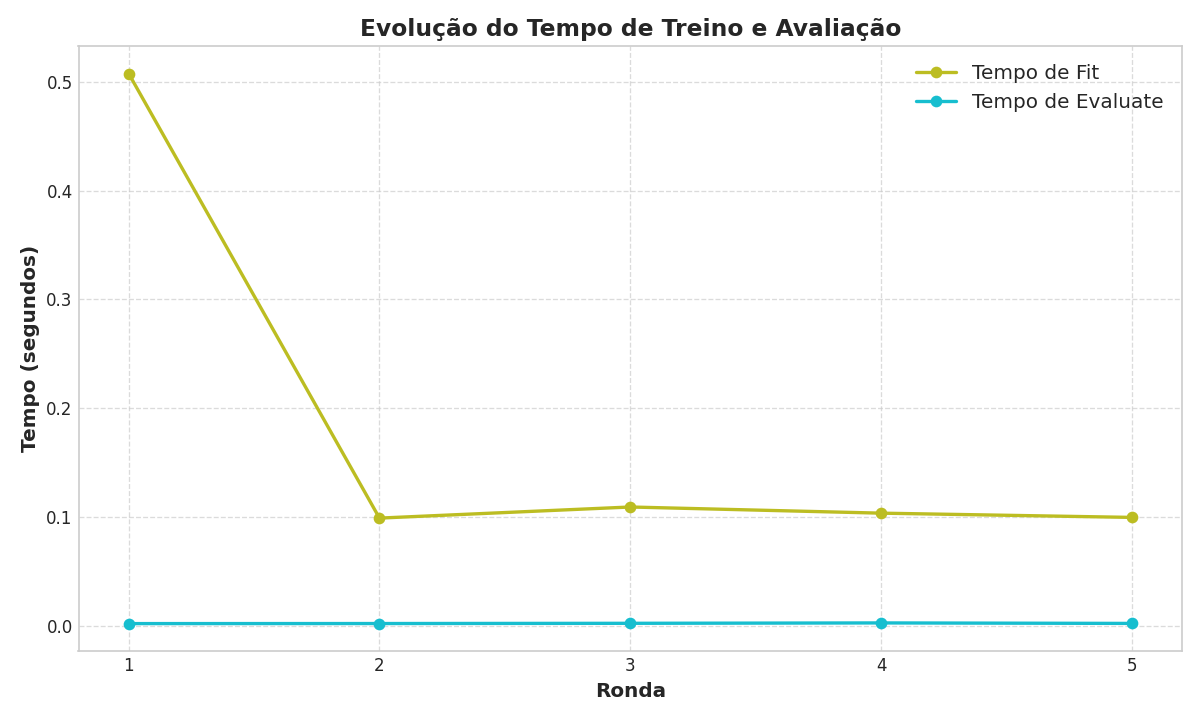
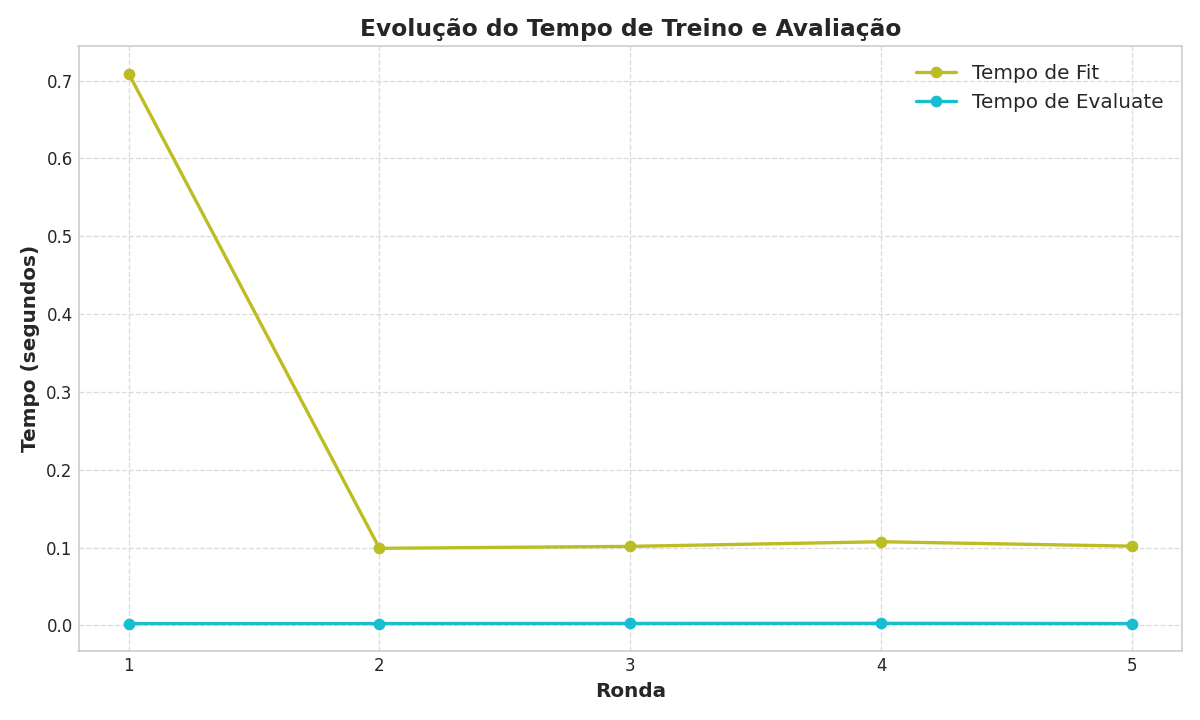
CLFE - Gráfico tempos EXP OK

diff --git a/CLFE/client/reports/client_1/detailed_report_client_1.html b/CLFE/client/reports/client_1/detailed_report_client_1.html
@@ -55,7 +55,7 @@
             <h3>Tabela 2: Métricas de Teste</h3>
             <div class="table-container"><table class="metrics-table"><thead><tr><th>Ronda</th><th>Test Loss</th><th>Test Rmse</th><th>Test Accuracy</th><th>Test Precision</th><th>Test Recall</th><th>Test F1</th></tr></thead><tbody><tr><td>1</td><td>0.3192</td><td>0.0867</td><td>0.9900</td><td>0.8776</td><td>0.9773</td><td>0.9247</td></tr><tr><td>2</td><td>0.3027</td><td>0.0758</td><td>0.9943</td><td>0.9167</td><td>1</td><td>0.9565</td></tr><tr><td>3</td><td>0.3039</td><td>0.0754</td><td>0.9943</td><td>0.9167</td><td>1</td><td>0.9565</td></tr><tr><td>4</td><td>0.2997</td><td>0.0752</td><td>0.9943</td><td>0.9167</td><td>1</td><td>0.9565</td></tr><tr><td>5</td><td>0.2966</td><td>0.0749</td><td>0.9943</td><td>0.9167</td><td>1</td><td>0.9565</td></tr></tbody></table></div>
             <h3>Tabela 3: Tempos de Processamento (segundos)</h3>
-            <div class="table-container"><table class="metrics-table"><thead><tr><th>Ronda</th><th>Fit</th><th>Evaluate</th><th>Lime</th><th>Shap</th></tr></thead><tbody><tr><td>1</td><td>0.5077</td><td>0.0021</td><td>-</td><td>-</td></tr><tr><td>2</td><td>0.0991</td><td>0.0021</td><td>-</td><td>-</td></tr><tr><td>3</td><td>0.1093</td><td>0.0024</td><td>-</td><td>-</td></tr><tr><td>4</td><td>0.1036</td><td>0.0027</td><td>-</td><td>-</td></tr><tr><td>5</td><td>0.0997</td><td>0.0023</td><td>0.6844</td><td>12.3160</td></tr></tbody></table></div>
+            <div class="table-container"><table class="metrics-table"><thead><tr><th>Ronda</th><th>Fit</th><th>Evaluate</th><th>Lime</th><th>Shap</th></tr></thead><tbody><tr><td>1</td><td>0.7091</td><td>0.0023</td><td>-</td><td>-</td></tr><tr><td>2</td><td>0.0990</td><td>0.0023</td><td>-</td><td>-</td></tr><tr><td>3</td><td>0.1015</td><td>0.0024</td><td>-</td><td>-</td></tr><tr><td>4</td><td>0.1074</td><td>0.0026</td><td>-</td><td>-</td></tr><tr><td>5</td><td>0.1018</td><td>0.0023</td><td>0.7313</td><td>12.1510</td></tr></tbody></table></div>
         </div>
 
         <div class="section plot-container">
@@ -129,7 +129,7 @@
         </div>
         
         <div class="footer">
-            <p><em>Relatório gerado automaticamente em 2025-05-07 08:15:50</em></p>
+            <p><em>Relatório gerado automaticamente em 2025-05-07 08:24:04</em></p>
         </div>
     </body>
     </html>

diff --git a/CLFE/client/reports/client_2/detailed_report_client_2.html b/CLFE/client/reports/client_2/detailed_report_client_2.html
@@ -55,7 +55,7 @@
             <h3>Tabela 2: Métricas de Teste</h3>
             <div class="table-container"><table class="metrics-table"><thead><tr><th>Ronda</th><th>Test Loss</th><th>Test Rmse</th><th>Test Accuracy</th><th>Test Precision</th><th>Test Recall</th><th>Test F1</th></tr></thead><tbody><tr><td>1</td><td>0.3171</td><td>0.0786</td><td>0.9929</td><td>0.9184</td><td>0.9783</td><td>0.9474</td></tr><tr><td>2</td><td>0.1690</td><td>0.0649</td><td>0.9957</td><td>0.9388</td><td>1</td><td>0.9684</td></tr><tr><td>3</td><td>0.1490</td><td>0.0559</td><td>0.9957</td><td>0.9388</td><td>1</td><td>0.9684</td></tr><tr><td>4</td><td>0.1453</td><td>0.0476</td><td>0.9972</td><td>0.9583</td><td>1</td><td>0.9787</td></tr><tr><td>5</td><td>0.1437</td><td>0.0415</td><td>0.9986</td><td>0.9787</td><td>1</td><td>0.9892</td></tr></tbody></table></div>
             <h3>Tabela 3: Tempos de Processamento (segundos)</h3>
-            <div class="table-container"><table class="metrics-table"><thead><tr><th>Ronda</th><th>Fit</th><th>Evaluate</th><th>Lime</th><th>Shap</th></tr></thead><tbody><tr><td>1</td><td>0.5112</td><td>0.0022</td><td>-</td><td>-</td></tr><tr><td>2</td><td>0.1013</td><td>0.0023</td><td>-</td><td>-</td></tr><tr><td>3</td><td>0.1057</td><td>0.0023</td><td>-</td><td>-</td></tr><tr><td>4</td><td>0.1065</td><td>0.0034</td><td>-</td><td>-</td></tr><tr><td>5</td><td>0.1028</td><td>0.0023</td><td>0.8926</td><td>12.7947</td></tr></tbody></table></div>
+            <div class="table-container"><table class="metrics-table"><thead><tr><th>Ronda</th><th>Fit</th><th>Evaluate</th><th>Lime</th><th>Shap</th></tr></thead><tbody><tr><td>1</td><td>0.7071</td><td>0.0023</td><td>-</td><td>-</td></tr><tr><td>2</td><td>0.0985</td><td>0.0024</td><td>-</td><td>-</td></tr><tr><td>3</td><td>0.1063</td><td>0.0023</td><td>-</td><td>-</td></tr><tr><td>4</td><td>0.1052</td><td>0.0025</td><td>-</td><td>-</td></tr><tr><td>5</td><td>0.1017</td><td>0.0024</td><td>0.7316</td><td>12.3635</td></tr></tbody></table></div>
         </div>
 
         <div class="section plot-container">
@@ -129,7 +129,7 @@
         </div>
         
         <div class="footer">
-            <p><em>Relatório gerado automaticamente em 2025-05-07 08:15:51</em></p>
+            <p><em>Relatório gerado automaticamente em 2025-05-07 08:24:04</em></p>
         </div>
     </body>
     </html>

diff --git a/CLFE/client/report_helpers/plot_generation.py b/CLFE/client/report_helpers/plot_generation.py
@@ -302,7 +302,57 @@ def generate_evolution_plots(history: Dict[str, List[Any]], base_reports: Path) 
             plot_files.append(plot_filename)
             logger.info(f"Generated plot: {plot_path}")
 
-        # 6. GRÁFICO DE COMPARAÇÃO DE ACURÁCIA - Treino, Validação e Teste
+        # 6. GRÁFICO DE TEMPOS DE EXPLICABILIDADE (LIME, SHAP - barras)
+        # Chaves para tempos de explicabilidade
+        explainability_keys = ['lime_duration_seconds', 'shap_duration_seconds']
+        
+        if any(key in history for key in explainability_keys) and any(history.get(key, [0])[-1] > 0 for key in explainability_keys):
+            plt.figure(figsize=(10, 6))
+            
+            available_metrics = [m for m in explainability_keys if m in history and any(v > 0 for v in history[m])]
+            
+            # Para explicabilidade, geralmente só temos valores na última ronda
+            # Vamos extrair os valores não-zero de cada métrica
+            data = {}
+            for metric in available_metrics:
+                metric_name = metric.replace('_duration_seconds', '')
+                non_zero_values = [v for v in history[metric] if v > 0]
+                if non_zero_values:
+                    data[metric_name] = non_zero_values[-1]  # Pegar o último valor não-zero
+            
+            # Criar gráfico de barras
+            if data:
+                names = list(data.keys())
+                values = list(data.values())
+                
+                # Definir cores para as barras
+                bar_colors = [colors.get(name, '#333333') for name in names]
+                
+                bars = plt.bar(names, values, color=bar_colors)
+                
+                # Adicionar valores acima das barras
+                for bar in bars:
+                    height = bar.get_height()
+                    plt.text(bar.get_x() + bar.get_width()/2., height + 0.1,
+                           f'{height:.2f}s', ha='center', va='bottom', fontsize=10)
+                
+                plt.xlabel("Método de Explicabilidade", fontsize=12, fontweight='bold')
+                plt.ylabel("Tempo (segundos)", fontsize=12, fontweight='bold')
+                plt.title("Tempos de Processamento das Explicabilidades", fontsize=14, fontweight='bold')
+                plt.xticks(fontsize=10)
+                plt.yticks(fontsize=10)
+                plt.grid(True, axis='y', linestyle='--', alpha=0.7)
+                
+                plt.tight_layout()
+                plot_filename = "explainability_times.png"
+                plot_path = base_reports / plot_filename
+                plt.savefig(plot_path, dpi=120)
+                plt.close()
+                # Não adicionamos explainability_times.png à lista de plot_files
+                # para evitar que apareça na seção de evolução de métricas
+                logger.info(f"Generated plot: {plot_path}")
+
+        # 7. GRÁFICO DE COMPARAÇÃO DE ACURÁCIA - Treino, Validação e Teste
         if all(key in history for key in ['val_accuracy', 'test_accuracy']):
             plt.figure(figsize=(10, 6))
             

diff --git a/README.md b/README.md
@@ -103,7 +103,9 @@ O dataset é particionado usando `StratifiedKFold` para preservar a proporção 
 - **Modelo treinado:** `results/client_X/model_client_X.pt`
 - **Histórico de métricas:** `reports/client_X/metrics_history.json`
 - **Dataset de treino (para LIME/SHAP):** `reports/client_X/X_train.npy`
-- **Plots de Evolução:** `reports/client_X/<metrica>_evolution.png` (e.g., `train_loss_evolution.png`, `val_rmse_evolution.png`, etc.)
+- **Plots de Evolução:** `reports/client_X/<metrica>_evolution.png` (treino/validação/teste) e **gráficos de tempos**:
+    - `reports/client_X/processing_times_evolution.png` (tempo de treino/avaliação por ronda)
+    - `reports/client_X/explainability_times.png` (tempo LIME/SHAP – apenas última ronda)
 - **Explicabilidade LIME:**
     - `reports/client_X/lime_final.png` (Top 10 Features)
     - `reports/client_X/lime_final.html` (Explicação Completa)
@@ -116,7 +118,7 @@ O dataset é particionado usando `StratifiedKFold` para preservar a proporção 
     - `reports/client_X/shap_temporal_heatmap.png` (Mapa de calor temporal)
     - `reports/client_X/shap_temporal_index_importance.png` (Importância por índice temporal)
     - `reports/client_X/shap_timestamp_features_importance.png` (Importância das features derivadas de timestamp)
-- **Relatório HTML Consolidado:** `reports/client_X/final_report.html` (métricas por ronda, tempos, gráficos, LIME Top 10, SHAP)
+- **Relatório HTML Consolidado:** `reports/client_X/final_report.html` (métricas, gráficos de evolução e tempos, LIME Top-10, SHAP, tabelas detalhadas)
 - **Ferramenta de Explicabilidade Interativa:** `explain_instance.py` (permite selecionar e explicar qualquer instância individual)
 
 ## Estado Atual
@@ -129,6 +131,7 @@ O dataset é particionado usando `StratifiedKFold` para preservar a proporção 
 - Explicabilidade (LIME/SHAP) gerando visualizações categorizadas por tipo de feature
 - Relatórios HTML finais detalhados com múltiplos gráficos e visualizações
 - Implementação do sistema de metadados para rastreabilidade completa das features
+- **NOVO:** Gráficos de tempos criados (`processing_times_evolution.png`, `explainability_times.png`)
 - **NOVO:** Correção de gráficos para mostrar o número correto de rondas (5 em vez de 10)
 - **NOVO:** Interface de relatório melhorada com apresentação lado a lado de LIME/SHAP
 - **NOVO:** Reorganização lógica dos gráficos de explicabilidade e evolução de métricas

diff --git a/ESTADOATUAL.md b/ESTADOATUAL.md
@@ -1,6 +1,6 @@
 # Estado Atual do Projeto – CLFE (Classificação Linear Federada Explicável)
 
-> Última atualização: 2025-05-06 11:05
+> Última atualização: 2025-05-07 09:31
 
 ---
 
@@ -24,7 +24,7 @@
 | ✅ | Conversão RLFE → **CLFE** (sigmoid + BCE) | Modelo |
 | ✅ | Métricas de classificação (acc/prec/recall/F1) | Modelo |
 | ✅ | Sistema de **metadados de features** | Explainability |
-| ✅ | Gráficos + relatório HTML (valores originais) | Explainability |
+| ✅ | Gráficos completos (métricas, tempos e `explainability_times.png`) + relatório HTML | Explainability |
 | ✅ | Módulo `export_utils.py` unifica exportação de artefatos | Infraestrutura |
 | 🔄 | Saída de explicações em `instance_explanations/` | Explainability |
 | 🔄 | Investigar *extra_feature_X* & alinhar datasets | Dados |
@@ -58,7 +58,7 @@ Legenda: ✅ Concluído 🔄 Em progresso ☐ Pendente
 - ☐ Explorar regularização / múltiplas camadas se necessário
 
 ### 3.4 Explicabilidade
-- ✅ LIME Top-10 & completo, cores verde/vermelho
+- ✅ LIME/SHAP visualizações e **gráficos de tempos (processing_times, explainability_times)**
 - ✅ SHAP global + categorias específicas (`dl_bitrate`, …)
 - 🔄 Gravar todas as explicações em `instance_explanations/`
 - ☐ Incluir categoria **time_features** nos gráficos agregados
@@ -95,6 +95,7 @@ Legenda: ✅ Concluído 🔄 Em progresso ☐ Pendente
 
 | Data | Alteração | Autor |
 |------|-----------|-------|
+| 2025-05-07 | Gráficos de tempos corrigidos + novo `explainability_times.png` | _AI assistant_ |
 | 2025-05-06 | Criação do módulo `export_utils.py` e atualização geral | _AI assistant_ |
 | 2025-05-06 | Documento reestruturado: visão geral, kanban, roadmap | _AI assistant_ |
 | 2025-05-02 | Conversão RLFE → CLFE, métricas de classificação | JF |
